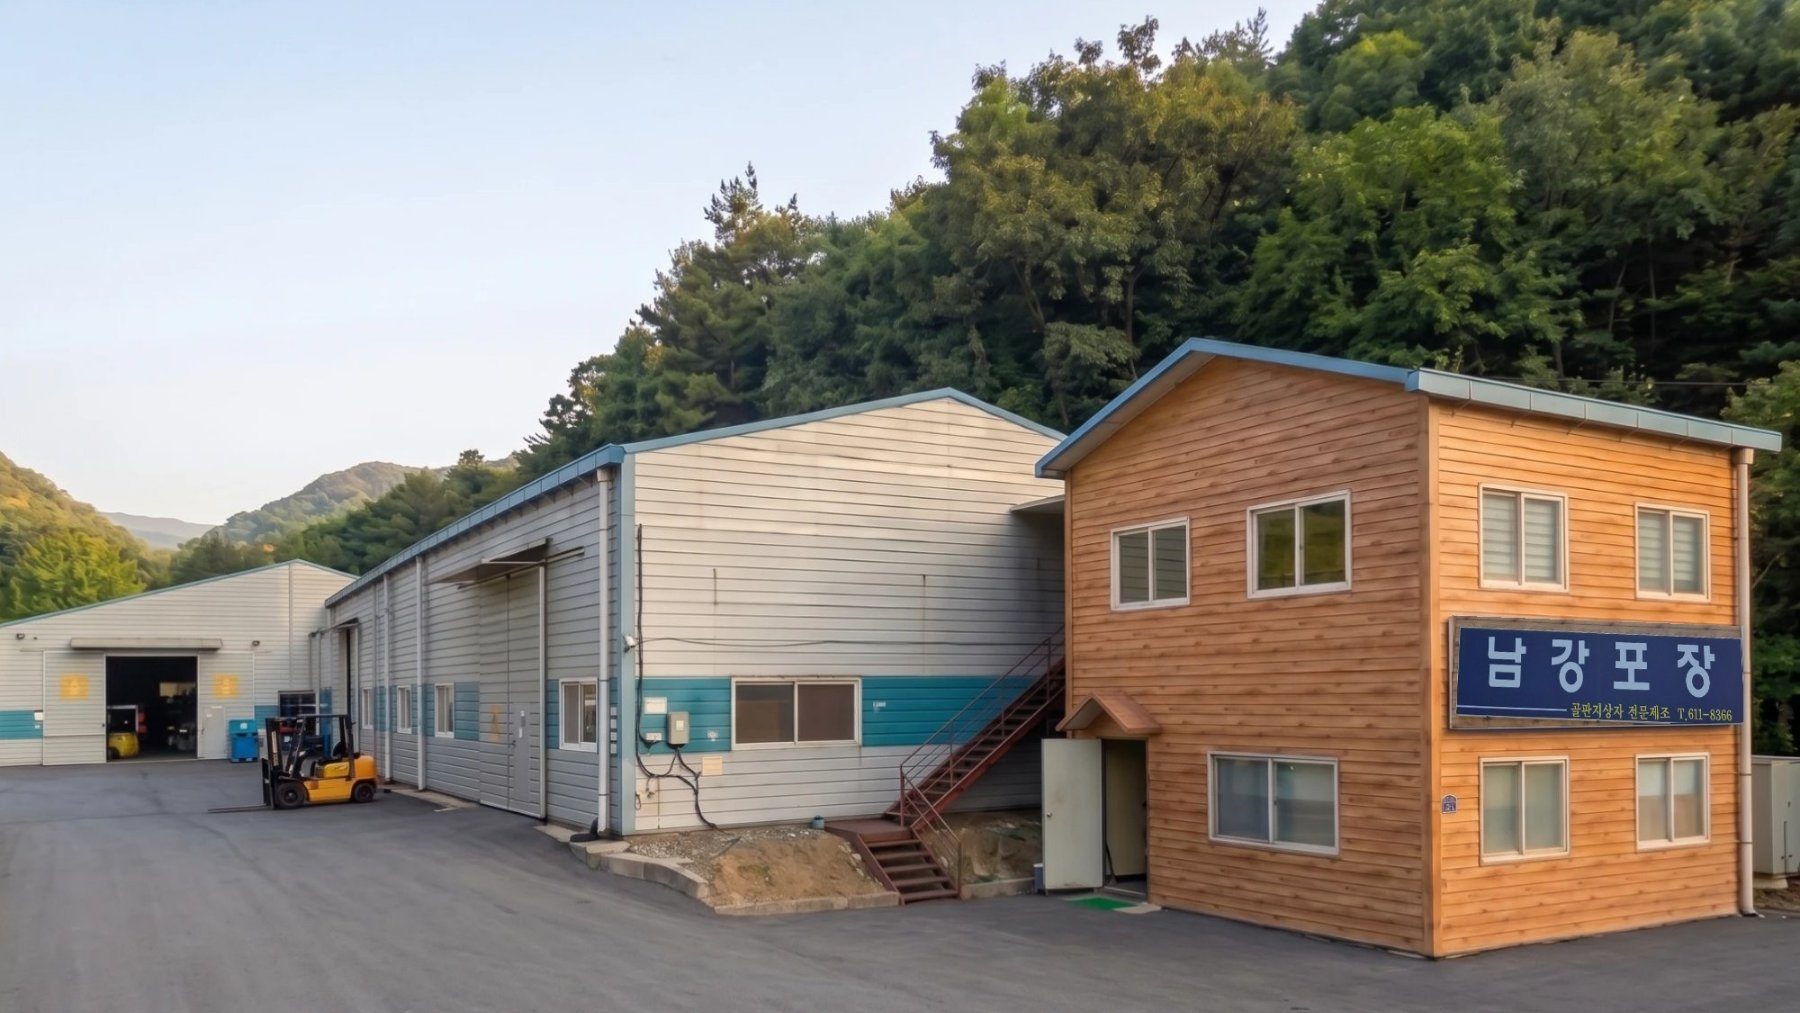
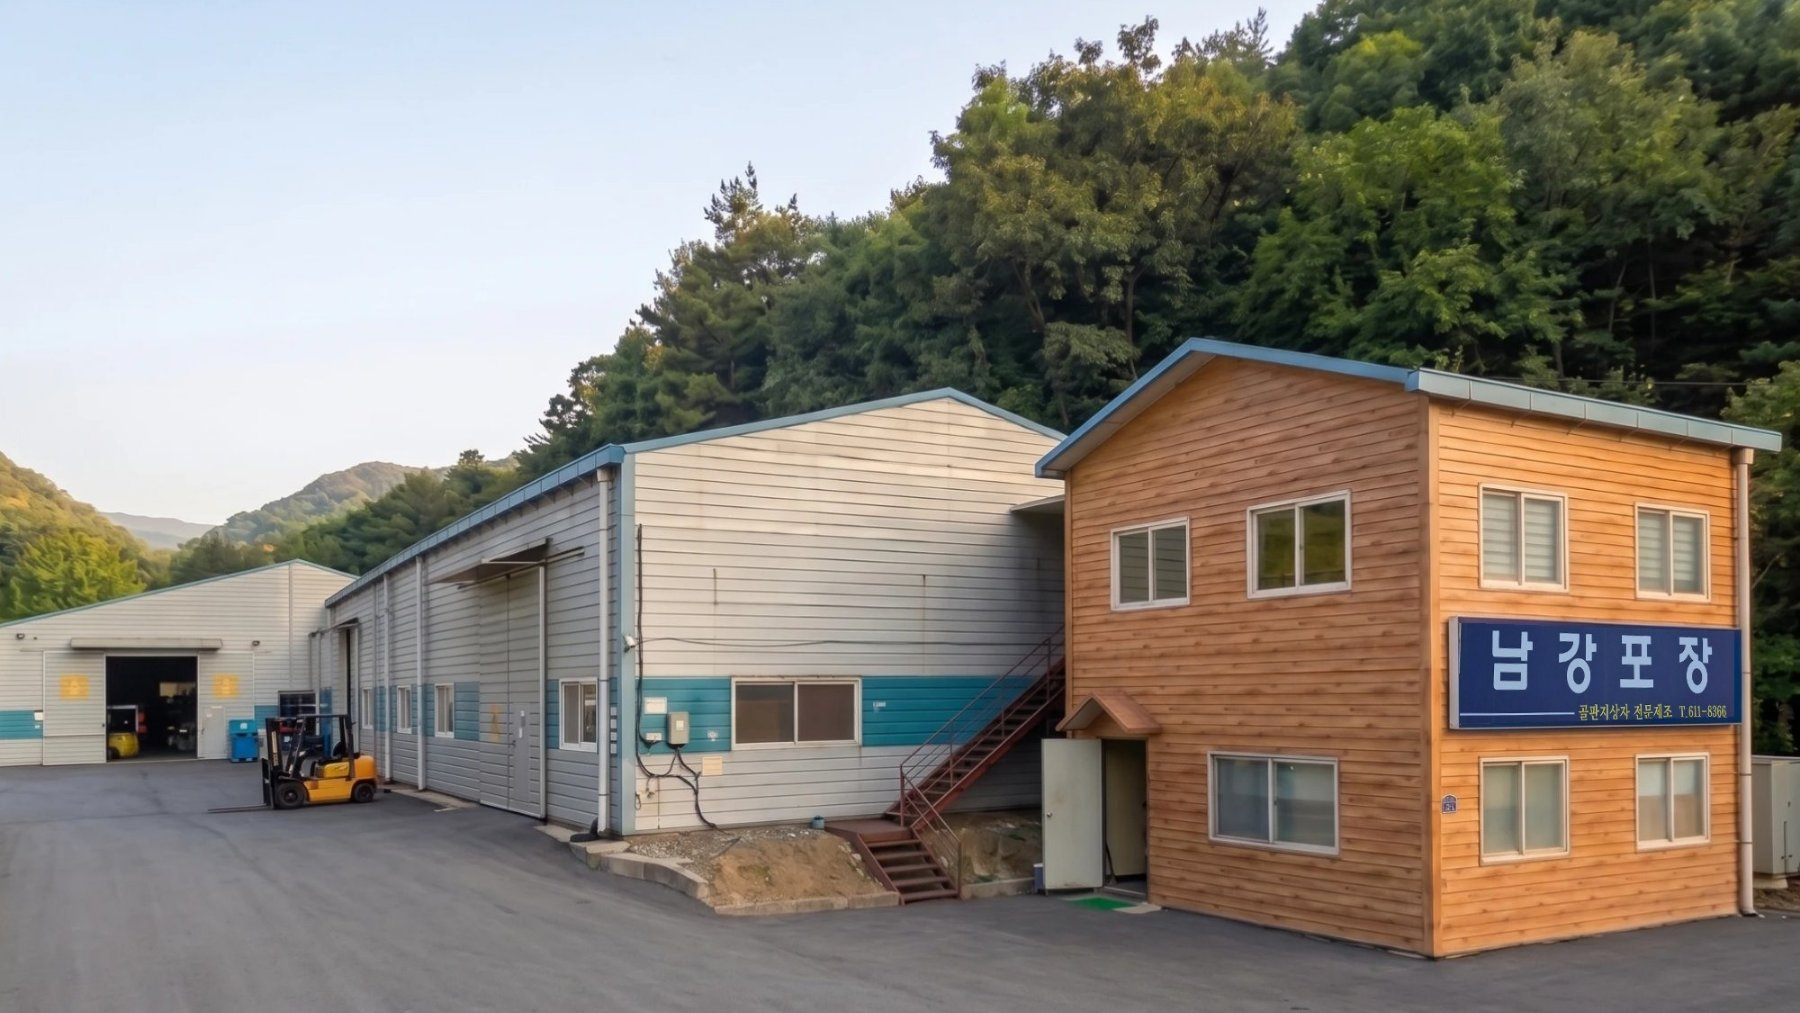
외관 사진 간판 합성 개선: 파란 판 안쪽만 교체

Changed region(s): [[0.8089, 0.612, 0.9956, 0.7345]]

diff --git a/contact.html b/contact.html
@@ -22,7 +22,7 @@
   <link rel="preconnect" href="https://fonts.gstatic.com" crossorigin>
   <link href="https://fonts.googleapis.com/css2?family=Montserrat:wght@300;500;600;700;800&display=swap" rel="stylesheet">
   <link rel="stylesheet" href="https://cdn.jsdelivr.net/gh/orioncactus/pretendard@v1.3.9/dist/web/variable/pretendardvariable-dynamic-subset.min.css">
-  <link rel="stylesheet" href="css/style.css?v=2026092231">
+  <link rel="stylesheet" href="css/style.css?v=2026092232">
 </head>
 <body>
 
@@ -438,10 +438,10 @@
     <button type="button" class="float-top" aria-label="맨 위로">TOP</button>
   </div>
 
-  <script src="js/config.js?v=2026092231"></script>
-  <script src="js/main.js?v=2026092231"></script>
-  <script src="js/slots.js?v=2026092231"></script>
-  <script src="js/site-data.js?v=2026092231"></script>
-  <script src="js/quote-form.js?v=2026092231"></script>
+  <script src="js/config.js?v=2026092232"></script>
+  <script src="js/main.js?v=2026092232"></script>
+  <script src="js/slots.js?v=2026092232"></script>
+  <script src="js/site-data.js?v=2026092232"></script>
+  <script src="js/quote-form.js?v=2026092232"></script>
 </body>
 </html>

diff --git a/index.html b/index.html
@@ -22,7 +22,7 @@
   <link rel="preconnect" href="https://fonts.gstatic.com" crossorigin>
   <link href="https://fonts.googleapis.com/css2?family=Montserrat:wght@300;500;600;700;800&display=swap" rel="stylesheet">
   <link rel="stylesheet" href="https://cdn.jsdelivr.net/gh/orioncactus/pretendard@v1.3.9/dist/web/variable/pretendardvariable-dynamic-subset.min.css">
-  <link rel="stylesheet" href="css/style.css?v=2026092231">
+  <link rel="stylesheet" href="css/style.css?v=2026092232">
 
   <script type="application/ld+json">
   {
@@ -423,9 +423,9 @@
     <button type="button" class="float-top" aria-label="맨 위로">TOP</button>
   </div>
 
-  <script src="js/config.js?v=2026092231"></script>
-  <script src="js/main.js?v=2026092231"></script>
-  <script src="js/slots.js?v=2026092231"></script>
-  <script src="js/site-data.js?v=2026092231"></script>
+  <script src="js/config.js?v=2026092232"></script>
+  <script src="js/main.js?v=2026092232"></script>
+  <script src="js/slots.js?v=2026092232"></script>
+  <script src="js/site-data.js?v=2026092232"></script>
 </body>
 </html>

diff --git a/404.html b/404.html
@@ -12,7 +12,7 @@
   <link rel="preconnect" href="https://fonts.gstatic.com" crossorigin>
   <link href="https://fonts.googleapis.com/css2?family=Montserrat:wght@300;500;600;700;800&display=swap" rel="stylesheet">
   <link rel="stylesheet" href="https://cdn.jsdelivr.net/gh/orioncactus/pretendard@v1.3.9/dist/web/variable/pretendardvariable-dynamic-subset.min.css">
-  <link rel="stylesheet" href="/css/style.css?v=2026092231">
+  <link rel="stylesheet" href="/css/style.css?v=2026092232">
 </head>
 <body>
 
@@ -125,9 +125,9 @@
     <button type="button" class="float-top" aria-label="맨 위로">TOP</button>
   </div>
 
-  <script src="/js/config.js?v=2026092231"></script>
-  <script src="/js/main.js?v=2026092231"></script>
-  <script src="/js/slots.js?v=2026092231"></script>
-  <script src="/js/site-data.js?v=2026092231"></script>
+  <script src="/js/config.js?v=2026092232"></script>
+  <script src="/js/main.js?v=2026092232"></script>
+  <script src="/js/slots.js?v=2026092232"></script>
+  <script src="/js/site-data.js?v=2026092232"></script>
 </body>
 </html>

diff --git a/about.html b/about.html
@@ -22,7 +22,7 @@
   <link rel="preconnect" href="https://fonts.gstatic.com" crossorigin>
   <link href="https://fonts.googleapis.com/css2?family=Montserrat:wght@300;500;600;700;800&display=swap" rel="stylesheet">
   <link rel="stylesheet" href="https://cdn.jsdelivr.net/gh/orioncactus/pretendard@v1.3.9/dist/web/variable/pretendardvariable-dynamic-subset.min.css">
-  <link rel="stylesheet" href="css/style.css?v=2026092231">
+  <link rel="stylesheet" href="css/style.css?v=2026092232">
 </head>
 <body>
 
@@ -326,9 +326,9 @@
     <button type="button" class="float-top" aria-label="맨 위로">TOP</button>
   </div>
 
-  <script src="js/config.js?v=2026092231"></script>
-  <script src="js/main.js?v=2026092231"></script>
-  <script src="js/slots.js?v=2026092231"></script>
-  <script src="js/site-data.js?v=2026092231"></script>
+  <script src="js/config.js?v=2026092232"></script>
+  <script src="js/main.js?v=2026092232"></script>
+  <script src="js/slots.js?v=2026092232"></script>
+  <script src="js/site-data.js?v=2026092232"></script>
 </body>
 </html>

diff --git a/careers.html b/careers.html
@@ -22,7 +22,7 @@
   <link rel="preconnect" href="https://fonts.gstatic.com" crossorigin>
   <link href="https://fonts.googleapis.com/css2?family=Montserrat:wght@300;500;600;700;800&display=swap" rel="stylesheet">
   <link rel="stylesheet" href="https://cdn.jsdelivr.net/gh/orioncactus/pretendard@v1.3.9/dist/web/variable/pretendardvariable-dynamic-subset.min.css">
-  <link rel="stylesheet" href="css/style.css?v=2026092231">
+  <link rel="stylesheet" href="css/style.css?v=2026092232">
 </head>
 <body>
 
@@ -245,9 +245,9 @@
     <button type="button" class="float-top" aria-label="맨 위로">TOP</button>
   </div>
 
-  <script src="js/config.js?v=2026092231"></script>
-  <script src="js/main.js?v=2026092231"></script>
-  <script src="js/slots.js?v=2026092231"></script>
-  <script src="js/site-data.js?v=2026092231"></script>
+  <script src="js/config.js?v=2026092232"></script>
+  <script src="js/main.js?v=2026092232"></script>
+  <script src="js/slots.js?v=2026092232"></script>
+  <script src="js/site-data.js?v=2026092232"></script>
 </body>
 </html>

diff --git a/facility.html b/facility.html
@@ -22,7 +22,7 @@
   <link rel="preconnect" href="https://fonts.gstatic.com" crossorigin>
   <link href="https://fonts.googleapis.com/css2?family=Montserrat:wght@300;500;600;700;800&display=swap" rel="stylesheet">
   <link rel="stylesheet" href="https://cdn.jsdelivr.net/gh/orioncactus/pretendard@v1.3.9/dist/web/variable/pretendardvariable-dynamic-subset.min.css">
-  <link rel="stylesheet" href="css/style.css?v=2026092231">
+  <link rel="stylesheet" href="css/style.css?v=2026092232">
 </head>
 <body>
 
@@ -263,9 +263,9 @@
     <button type="button" class="float-top" aria-label="맨 위로">TOP</button>
   </div>
 
-  <script src="js/config.js?v=2026092231"></script>
-  <script src="js/main.js?v=2026092231"></script>
-  <script src="js/slots.js?v=2026092231"></script>
-  <script src="js/site-data.js?v=2026092231"></script>
+  <script src="js/config.js?v=2026092232"></script>
+  <script src="js/main.js?v=2026092232"></script>
+  <script src="js/slots.js?v=2026092232"></script>
+  <script src="js/site-data.js?v=2026092232"></script>
 </body>
 </html>

diff --git a/privacy.html b/privacy.html
@@ -22,7 +22,7 @@
   <link rel="preconnect" href="https://fonts.gstatic.com" crossorigin>
   <link href="https://fonts.googleapis.com/css2?family=Montserrat:wght@300;500;600;700;800&display=swap" rel="stylesheet">
   <link rel="stylesheet" href="https://cdn.jsdelivr.net/gh/orioncactus/pretendard@v1.3.9/dist/web/variable/pretendardvariable-dynamic-subset.min.css">
-  <link rel="stylesheet" href="css/style.css?v=2026092231">
+  <link rel="stylesheet" href="css/style.css?v=2026092232">
 </head>
 <body>
 
@@ -217,9 +217,9 @@
     <button type="button" class="float-top" aria-label="맨 위로">TOP</button>
   </div>
 
-  <script src="js/config.js?v=2026092231"></script>
-  <script src="js/main.js?v=2026092231"></script>
-  <script src="js/slots.js?v=2026092231"></script>
-  <script src="js/site-data.js?v=2026092231"></script>
+  <script src="js/config.js?v=2026092232"></script>
+  <script src="js/main.js?v=2026092232"></script>
+  <script src="js/slots.js?v=2026092232"></script>
+  <script src="js/site-data.js?v=2026092232"></script>
 </body>
 </html>

diff --git a/products.html b/products.html
@@ -22,7 +22,7 @@
   <link rel="preconnect" href="https://fonts.gstatic.com" crossorigin>
   <link href="https://fonts.googleapis.com/css2?family=Montserrat:wght@300;500;600;700;800&display=swap" rel="stylesheet">
   <link rel="stylesheet" href="https://cdn.jsdelivr.net/gh/orioncactus/pretendard@v1.3.9/dist/web/variable/pretendardvariable-dynamic-subset.min.css">
-  <link rel="stylesheet" href="css/style.css?v=2026092231">
+  <link rel="stylesheet" href="css/style.css?v=2026092232">
 </head>
 <body>
 
@@ -284,9 +284,9 @@
     <button type="button" class="float-top" aria-label="맨 위로">TOP</button>
   </div>
 
-  <script src="js/config.js?v=2026092231"></script>
-  <script src="js/main.js?v=2026092231"></script>
-  <script src="js/slots.js?v=2026092231"></script>
-  <script src="js/site-data.js?v=2026092231"></script>
+  <script src="js/config.js?v=2026092232"></script>
+  <script src="js/main.js?v=2026092232"></script>
+  <script src="js/slots.js?v=2026092232"></script>
+  <script src="js/site-data.js?v=2026092232"></script>
 </body>
 </html>

diff --git a/images/CREDITS.md b/images/CREDITS.md
@@ -40,5 +40,5 @@
 
 ## 공장 외관 사진 (2026-09-23 교체)
 `visual-exterior.jpg`, `exterior-wide.jpg` — 원본 `사진원본/29-외관.webp` (사용자 제공, AI로 정리한 버전으로 보임).
-원본 간판이 실제와 달라(없는 로고 마크 + `NANGANG PACKAGING T.631-1188`), 실제 촬영본(13.jpg)의 간판을 잘라 원근을 맞춰 합성했습니다. 회사명과 전화번호가 잘리지 않도록 크롭 위치도 오른쪽으로 조정했습니다.
+원본 간판이 실제와 달라(없는 로고 마크 + `NANGANG PACKAGING T.631-1188`), 실제 촬영본(30-간판.jpg)의 파란 판 부분만 잘라 원근을 맞춰 합성했습니다 (테두리·벽은 원본 그대로). 회사명과 전화번호가 잘리지 않도록 크롭 위치도 오른쪽으로 조정했습니다.
 합성본은 `사진원본/29-외관-실제간판.jpg`. 실제 촬영본은 `사진원본/13.jpg`입니다.
